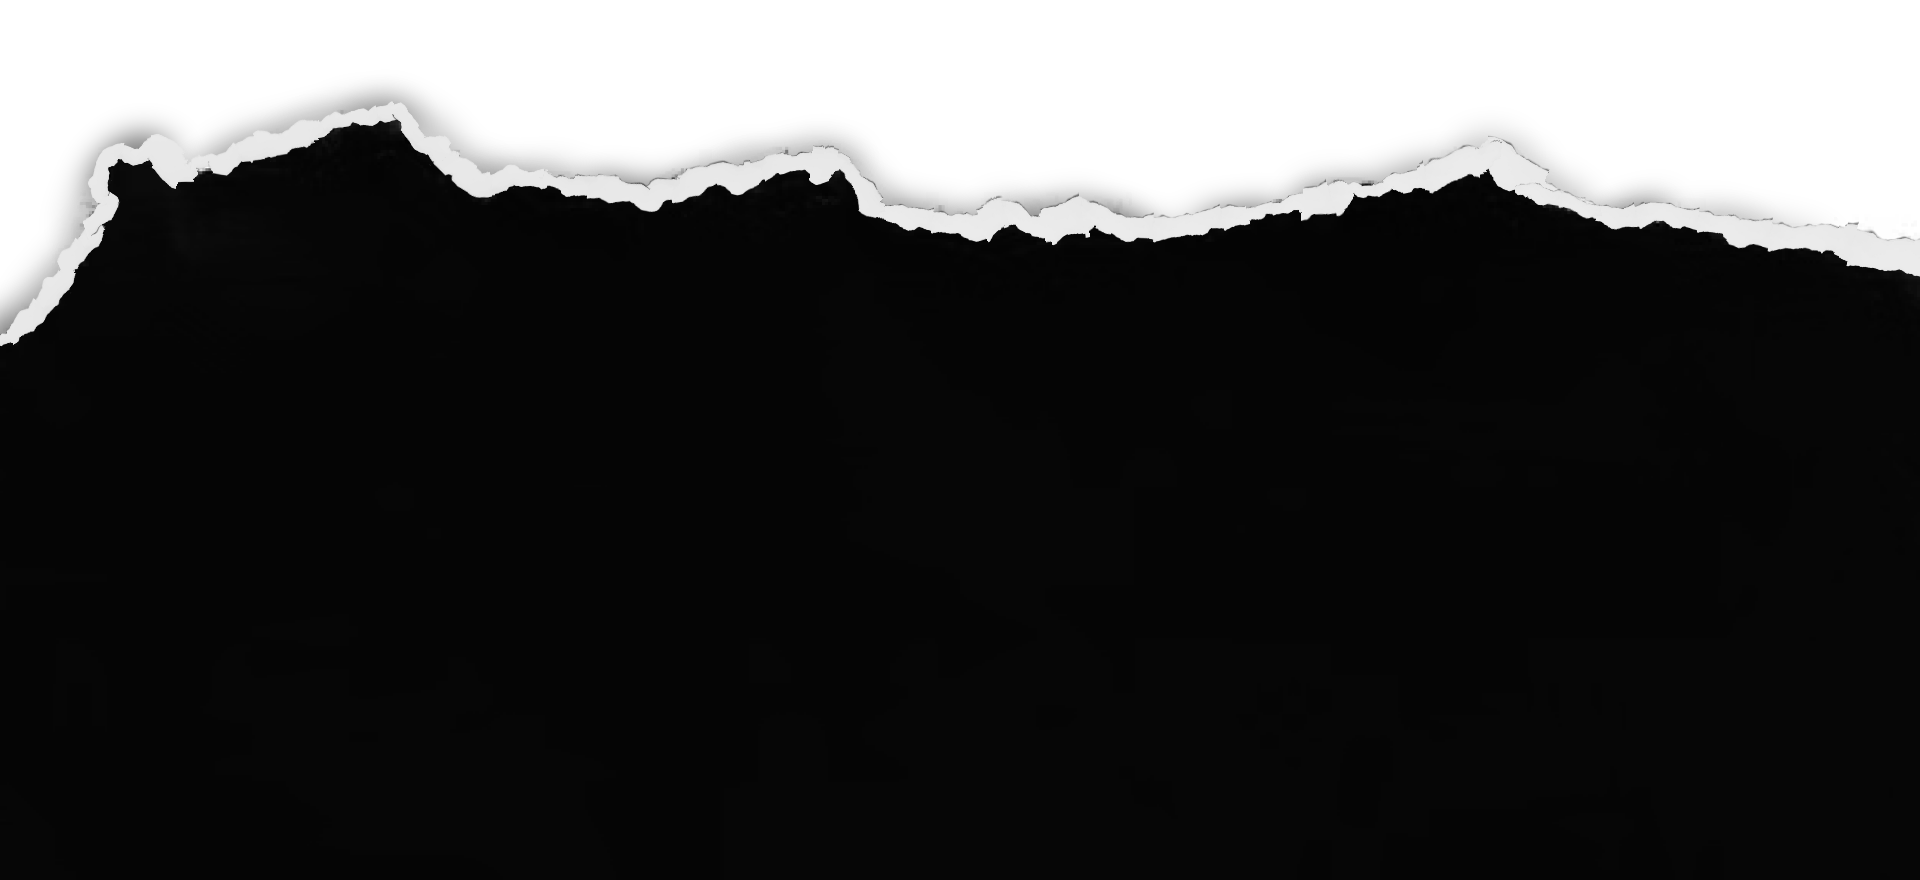
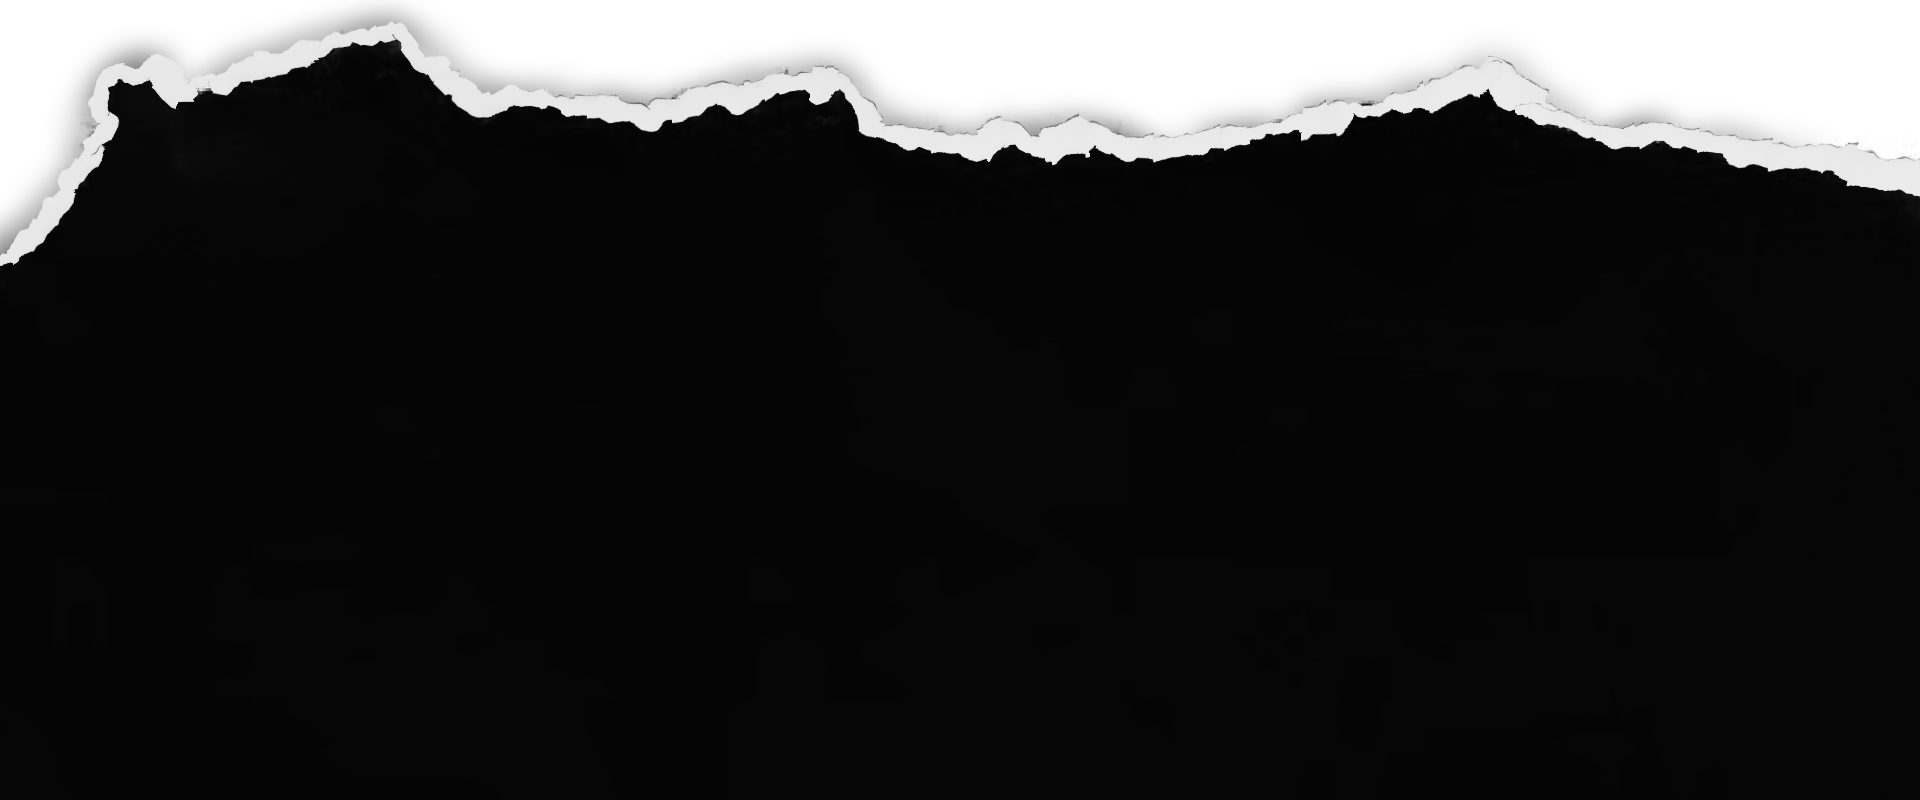
plaid background works!

Changed region(s): [[0.0, 0.0, 1.0, 0.4062]]

diff --git a/src/views/Overview.css b/src/views/Overview.css
@@ -1,12 +1,27 @@
+.overview {
+
+}
+
 .overview-top__bar-wrapper {
     width: 90%;
 }
 
-.overview-middle__backdrop {
-    margin-top: 12rem;
+.overview-middle__backdrop-path {
+    position: relative;
 }
 
-.overview-middle__backdrop-torn-offset {
-    position: relative;
-    top: 54rem;
+.top-3\/5 {
+    top: 60%;
+}
+
+.torn-paper-bounds {
+    width: 1920px;
+    height: 1080px;
+}
+
+.clip-paper {
+    /* transform: matrix(9.531774,0,0,13.561559,-21.410766,-2611.5181); */
+    background-image: url('../assets/grid-bg.png');
+    /* used SvgPathEdit to properly scale the path. was not able to figure this out in Inkscape */
+    clip-path: path("m 1.4417 863.3202 l 0.0305 -376.6791 c -0.4722 -73.6411 -8.1865 -87.4409 68.5278 -130.6411 c 5 -15 3.7646 -9.5473 8 -12 c -3 -25 9 -36 13.9296 -33.1105 c -1.9296 -14.8895 6.6715 -15.174 8.0252 -17.2001 c 4.2313 -6.3319 6.0365 -12.5661 4.7771 -16.499 c -1.2151 -3.7945 -3.0758 -30.3765 -2.7319 -35.1904 c -0.0047 -4.8537 0.4941 -10.3949 1.1086 -12.3139 c 3.8914 -7.6861 33.8914 8.3139 36.9853 -13.7948 c 3.5187 0.8123 9.453 1.4823 13.1874 1.4877 c 8.2371 0.0136 12.2761 2.654 18.9622 12.3966 l 4.752 6.9245 l 7.748 -0.9642 c 4.2614 -0.5303 10.673 -2.3814 14.248 -4.1119 c 8.8247 -4.2719 16.4802 -5.7623 29.3726 -5.7189 c 14.0831 0.0542 19.2644 -2.1739 40.2169 -8.1178 c 18 -11 29 -16 52.4767 -21.7921 c 10.0894 -0.8444 12.0894 -1.8444 27.5233 -2.2079 c 15.0578 -2.1715 22 0 32.419 -7.7873 c 12 2 15 -1 25 6 c 8 6 10 11 8.9422 15.1715 c 3.9646 10.955 8.0578 12.8285 10.0578 13.8285 c 3.3161 5.1263 8.9752 9.3168 23.1766 17.1608 c 11.4298 6.3129 13.6259 8.0759 17.8234 10.8392 c 5.8234 -0.6079 3.8234 -0.6079 10 0 c 10 -1 39 3 45 6 c 14.757 -7.4854 45.757 -3.4854 58.0187 4.3397 c 4.125 1.5582 18.3 4.7628 31.5 7.1212 c 13.2 2.3584 27.741 5.567 33.2383 2.0537 c 16 -1 24 -1 40.6458 -2.0953 c 7.1952 -2.7164 16.2229 -5.5724 18.5972 -9.4193 c 3.8388 -0.7744 11.2545 -3.2765 14 -9 c 5.2249 -2.2838 13.4679 -4.8984 18.3178 -5.8125 c 4.8499 -0.914 14.2999 -3.9315 21 -6.7062 c 11.6822 -1.4813 15.6822 -4.4813 26.6822 -2.4813 c 6.325 -1.089 15.775 -3.3226 21 -4.9635 c 10.027 -3.1504 35 -6.0365 40 -0.0365 c 1.9563 0.5221 2.9437 2.9687 6 7 c 3.691 4.4184 10.6904 26.8302 13 35 l 1.9387 11.7009 l 9.7 4.5092 c 10.1681 4.7276 22.758 8.2061 34.6448 9.5758 c 7.5988 0.8747 22.898 3.8393 36.5553 7.0832 c 4.675 1.1107 13.675 2.7611 19.9999 3.6684 l 11.5 1.6491 l 9 -4.6191 c 15.7224 -8.0691 18.3397 -8.8381 28.0001 -8.2224 c 7.2864 0.4652 11.3364 1.7155 21.2711 6.5652 l 17.3901 1.0897 l 23.7289 -0.434 c 12.2711 -5.566 24.571 -0.1682 34.2288 2.8791 c 19.0423 -1.4451 38.0423 3.5549 65.4107 3.2087 c 27.9025 -2.1482 41.6316 -15.6538 79.4377 -20.6434 c 5.1416 -1.9583 12.1939 -7.0104 21.5001 -5.864 c 5.6938 -5.1464 15.7516 -3.6264 20.1516 -5.2443 c 4.4001 -1.6165 13.175 -3.385 19.5 -3.9301 c 8.8615 -0.7635 12.9914 -1.8349 18 -4.6692 c 21.4054 -12.1145 21.1859 -12.0345 34.6997 -12.695 c 12.5528 -0.6143 12.9648 -0.7391 21.3004 -6.4729 c 9.3532 -6.4336 24.9047 -13.1615 30.4237 -13.1615 c 1.9426 0 5.9045 -1.5582 8.8042 -3.4636 c 9.6066 -6.3115 18.1305 -10.4099 30.7721 -14.7943 c 16.5675 -5.746 21.6567 -6.5706 29.1888 -4.7289 c 3.4712 0.849 9.5852 2.2675 13.5867 3.1531 c 6.3533 1.4063 8.0009 2.4438 13 8.1925 c 3.1485 3.6209 5.8729 7.0737 6.0543 7.6745 c 0.5443 1.8037 11.2547 12.9703 17.6703 18.4234 c 3.3 2.8045 9.0329 6.7998 12.7398 8.8788 c 3.7069 2.0776 8.2372 5.0354 10.0674 6.5719 c 1.8302 1.5365 5.9232 4.0644 9.0957 5.6172 c 3.1724 1.5528 8.9245 5.1127 12.7824 7.9091 c 11.758 8.5262 25.4325 14.8228 35.3147 16.263 c 8.5484 1.2463 12.1334 0.8083 20.5001 -2.5008 c 1.9249 -0.7608 7.325 -2.1644 11.9999 -3.1178 c 8.8306 -1.801 13.6212 -1.2477 31 3.583 c 4.1251 1.146 14.25 3.4053 22.5 5.0191 c 29.6229 5.7949 37.4185 9.3046 42.542 11.3464 l 4.3147 1.3358 l 43.3711 0.8639 c 50.2652 1.0008 59.371 1.9583 83.8013 8.8096 c 21.3536 5.9888 27.8939 8.8001 37.1378 15.962 l 6.9186 5.3609 l 0.0067 435.0128 l 0.0067 435.0128 H 961.411 H 1.4108 Z");
 }

diff --git a/src/views/Overview.tsx b/src/views/Overview.tsx
@@ -1,27 +1,58 @@
-import './Overview.css';
-import Logo  from '../assets/logo-placeholder.png';
+import "./Overview.css";
+import Logo from "../assets/logo-placeholder.png";
 import Burger from "../components/Burger";
-import TornPaper from "../assets/torn-paper-combined.png";
+import TornPaperEdge from "../assets/torn-paper-edge.png";
+import TornPaper from "../assets/torn-paper.png";
+import Profile from "../assets/profile-placeholder.png";
+import GridBG from "../assets/grid-bg.png";
+
 const Overview = () => {
-    return (
-        <>
-            <div className="overview-top__bar-wrapper p-2 my-4 mx-auto">
-                <div className="overview-top__bar w-full flex justify-between align-middle">
-                    <span className="overview-top__bar-logo pt-2 pointer-events-none">
-                        <img src={Logo} alt="logo" width="48px" height="48px" />
-                    </span>
-                    <span className='transition ease-out hover:scale-125'>
-                        <Burger />
-                    </span>
-                </div>
-            </div>
-            <div className='overview-middle h-full'>
-                <div className='overview-middle__backdrop bg-contain'>
-                    <img src={TornPaper} alt="paper-edge" className='' />
-                </div>
-            </div>
-        </>
-    );
-}
+  return (
+    <>
+      <header className="overview">
+        <div className="overview-top__bar-wrapper p-2 my-4 mx-auto">
+          <div className="overview-top__bar w-full flex justify-between align-middle">
+            <span className="overview-top__bar-logo pt-2 pointer-events-none">
+              <img src={Logo} alt="logo" width="48px" height="48px" />
+            </span>
+            <span className="transition ease-out hover:scale-125">
+              <Burger />
+            </span>
+          </div>
+        </div>
+        <div className="overview-middle__backdrop-img min-w-max relative top-32">
+          <div className="torn-paper-bounds clip-paper bg-fuschia absolute">
+
+          </div>
+          {/* <img
+            src={TornPaper}
+            alt=""
+            className="absolute top-36 pointer-events-none"
+          /> */}
+          <img
+            src={TornPaperEdge}
+            alt="paper-edge"
+            className="relative top-36 pointer-events-none"
+          />
+        </div>
+        <div className="overview-middle__backdrop-content absolute top-3/5 flex justify-between w-full pointer-events-none">
+          <div className="mx-32 my-20 flex flex-col leading-tight text-white">
+            <h1 className="font-unbounded overviewTextBp:text-8xl text-7xl ">
+              Patrick Keefe
+            </h1>
+            <p className="text-off-white">
+              FRONT-END ENGINEER - GAME DEVELOPER - ARTIST
+            </p>
+          </div>
+          <img
+            src={Profile}
+            className="relative bottom-56 scale-150 hidden lg:block "
+          />
+        </div>
+      </header>
+
+    </>
+  );
+};
 
 export default Overview;

diff --git a/src/index.css b/src/index.css
@@ -19,6 +19,22 @@
     src: url('./assets/fonts/AEONIK-BOLD.TTF') format('ttf');
   }
 
+  @font-face {
+    font-family: 'Unbounded';
+    src: url('./assets/fonts/Unbounded-VariableFont_wght.ttf');
+    font-weight: bold;
+    font-display: swap;
+    font-style: normal;
+  }
+
+  @font-face {
+    font-family: 'NovaFlat Regular';
+    src: url('./assets/fonts/NovaFlat-Regular.ttf');
+    font-weight: normal;
+    font-display: swap;
+    font-style: normal;
+  }
+
 }
 
 :root {
@@ -35,15 +51,23 @@ main {
   backface-visibility: hidden;
 }
 
+h1 {
+  font-size: 6.75rem;
+  font-family: 'Unbounded' Arial, fantasy;
+}
+
+p {
+  font-size: 2.25rem;
+  font-family: 'NovaFlat Regular';
+}
+
 .main-content {
-  --main-content-primary-color: #C6C6C6;
   display: block;
   position: relative;
   min-height: 100vh;
   overflow: hidden;
   width: 100%;
   height: 100%;
-  background-color: var(--main-content-primary-color);
 }
 
 .main-content::before {
@@ -58,6 +82,7 @@ main {
   animation: 1s steps(2) infinite background-noise-effect;
   background-position: 0 0;
   pointer-events: none;
+  z-index: 10;
 }
 
 

diff --git a/tailwind.config.js b/tailwind.config.js
@@ -7,6 +7,7 @@ export default {
         md: "768px",
         lg: "976px",
         xl: "1440px",
+        overviewTextBp: "1790px",
       },
       colors: {
         "white":         "#FFFFFF",
@@ -23,7 +24,9 @@ export default {
       },
       fontFamily: {
         sans: ["Aeonik", "sans-serif"],
-        serif: ["Mondwest", "Times New Roman", "sans-serif"]
+        serif: ["Mondwest", "Times New Roman", "sans-serif"],
+        unbounded: ["Unbounded", "Arial", "fantasy"],
+        nova: ["NovaFlat Regular", "Arial", "sans-serif"],
       },
       extend: {
       },

diff --git a/src/App.tsx b/src/App.tsx
@@ -9,7 +9,7 @@ function App() {
 
   return (
     <>
-      <main className="main-content">
+      <main className="main-content bg-off-white">
         <Overview />
       </main>
     </>
